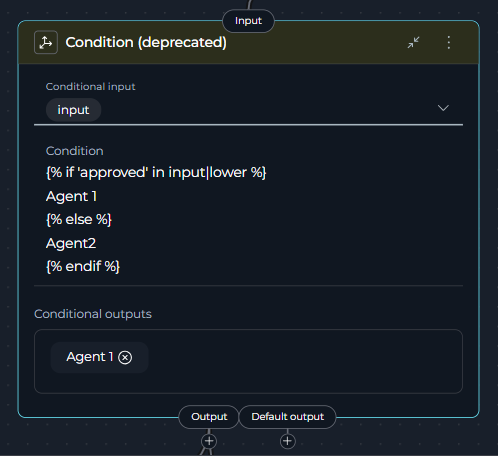
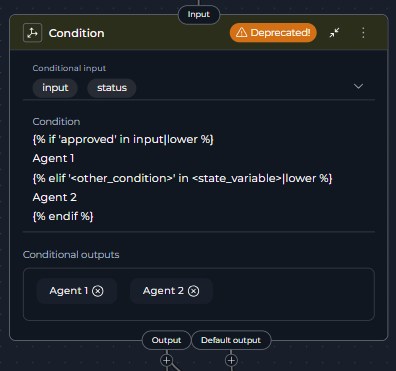
Update condition node migration guide with accurate UI implementation

diff --git a/docs/migration/v2.0.1/condition-node-migration.md b/docs/migration/v2.0.1/condition-node-migration.md
@@ -5,15 +5,26 @@
 The **Condition Node** has been deprecated and is no longer available for creation in new pipelines. While existing Condition nodes in your pipelines will continue to function, we strongly recommend migrating to **Router** or **Decision** nodes to take advantage of improved functionality and ensure long-term compatibility.
 
 !!! warning "Deprecation Notice"
-    The Condition Node is deprecated and will be removed in a future release. Plan your migration accordingly.
+    The Condition Node is deprecated and will be removed in a future release. Existing Condition nodes in your pipelines will continue to function, but they display a **warning icon** with "Deprecated!" text in the node header and show a tooltip when hovered. Plan your migration accordingly.
 
 **What changed:**
 
-* **Condition Node** is now deprecated and displays a `(deprecated)` label in the UI
+* **Condition Node** is now deprecated and displays a **warning icon** with "Deprecated!" text in the node header
 * Creating new Condition nodes is no longer possible through the Add Node menu
 * Existing Condition nodes continue to function but should be migrated
 * **Router Node** is the primary replacement (recommended for most use cases)
 * **Decision Node** is available for complex, LLM-powered routing scenarios
+* Hovering over the warning icon shows a tooltip with migration guidance
+
+### How to Identify Deprecated Condition Nodes
+
+Deprecated Condition nodes are visually marked in the pipeline editor:
+
+* **Warning Icon**: A yellow/orange warning triangle icon appears in the node header
+* **"Deprecated!" Text**: Text next to the icon clearly indicates the deprecation status
+* **Tooltip**: Hovering over the warning area shows: *"This node is deprecated and will be removed in a future version. View Migration Guide"* with a link to this guide
+
+![Deprecated Condition Node](../../img/migration/v2.0.1/condition-node/deprecated-condition-node.png)
 
 !!! info "No Automatic Migration"
     There is no automatic migration from Condition Nodes to Router or Decision Nodes. You must manually replace Condition Nodes in your existing pipelines following the steps in this guide.
@@ -96,7 +107,7 @@ Follow these steps to migrate a Condition node to a Router node:
 2. Open the pipeline containing the Condition node
 3. Click the **Configuration** tab
 4. Select the **Flow** tab to view the pipeline flow diagram
-5. Locate the **Condition node** - it will display with a `(deprecated)` label in its title
+5. Locate the **Condition node** - it will display with a **warning icon** and "Deprecated!" text in the node header
 6. Click on the Condition node to open its configuration panel
 7. Review its current configuration:
       * **Conditional Input**: Note which state variables are used
@@ -104,7 +115,7 @@ Follow these steps to migrate a Condition node to a Router node:
       * **Conditional Outputs**: Identify the named output paths
       * **Default Output**: Note the fallback route
 `
-![Decision Node](../../img/migration/v2.0.1/condition-node/condition-node.png)
+![Condition Node](../../img/migration/v2.0.1/condition-node/condition-node.png)
 
 
 ### Step 2: Add a Router Node
@@ -187,7 +198,7 @@ Follow these steps to migrate a Condition node to a Decision node:
 1. Navigate to **Pipelines** in the main menu
 2. Open the pipeline containing the Condition node
 3. Click the **Configuration** tab → **Flow** tab
-4. Click on the **Condition node** (marked with `(deprecated)`)
+4. Click on the **Condition node** (marked with a **warning icon** and "Deprecated!" text)
 5. Analyze the conditional logic:
       * What criteria determine the routing?
       * What are the possible output paths?
@@ -353,7 +364,7 @@ Configure the Decision node with natural language instructions:
 
 ## Comparison Table
 
-| Feature | Condition Node (Deprecated) | Router Node (Recommended) | Decision Node |
+| Feature | Condition Node | Router Node (Recommended) | Decision Node |
 |---------|---------------------------|--------------------------|---------------|
 | **Status** | Deprecated (still works) | Active | Active |
 | **Can Create New** | No | Yes | Yes |
